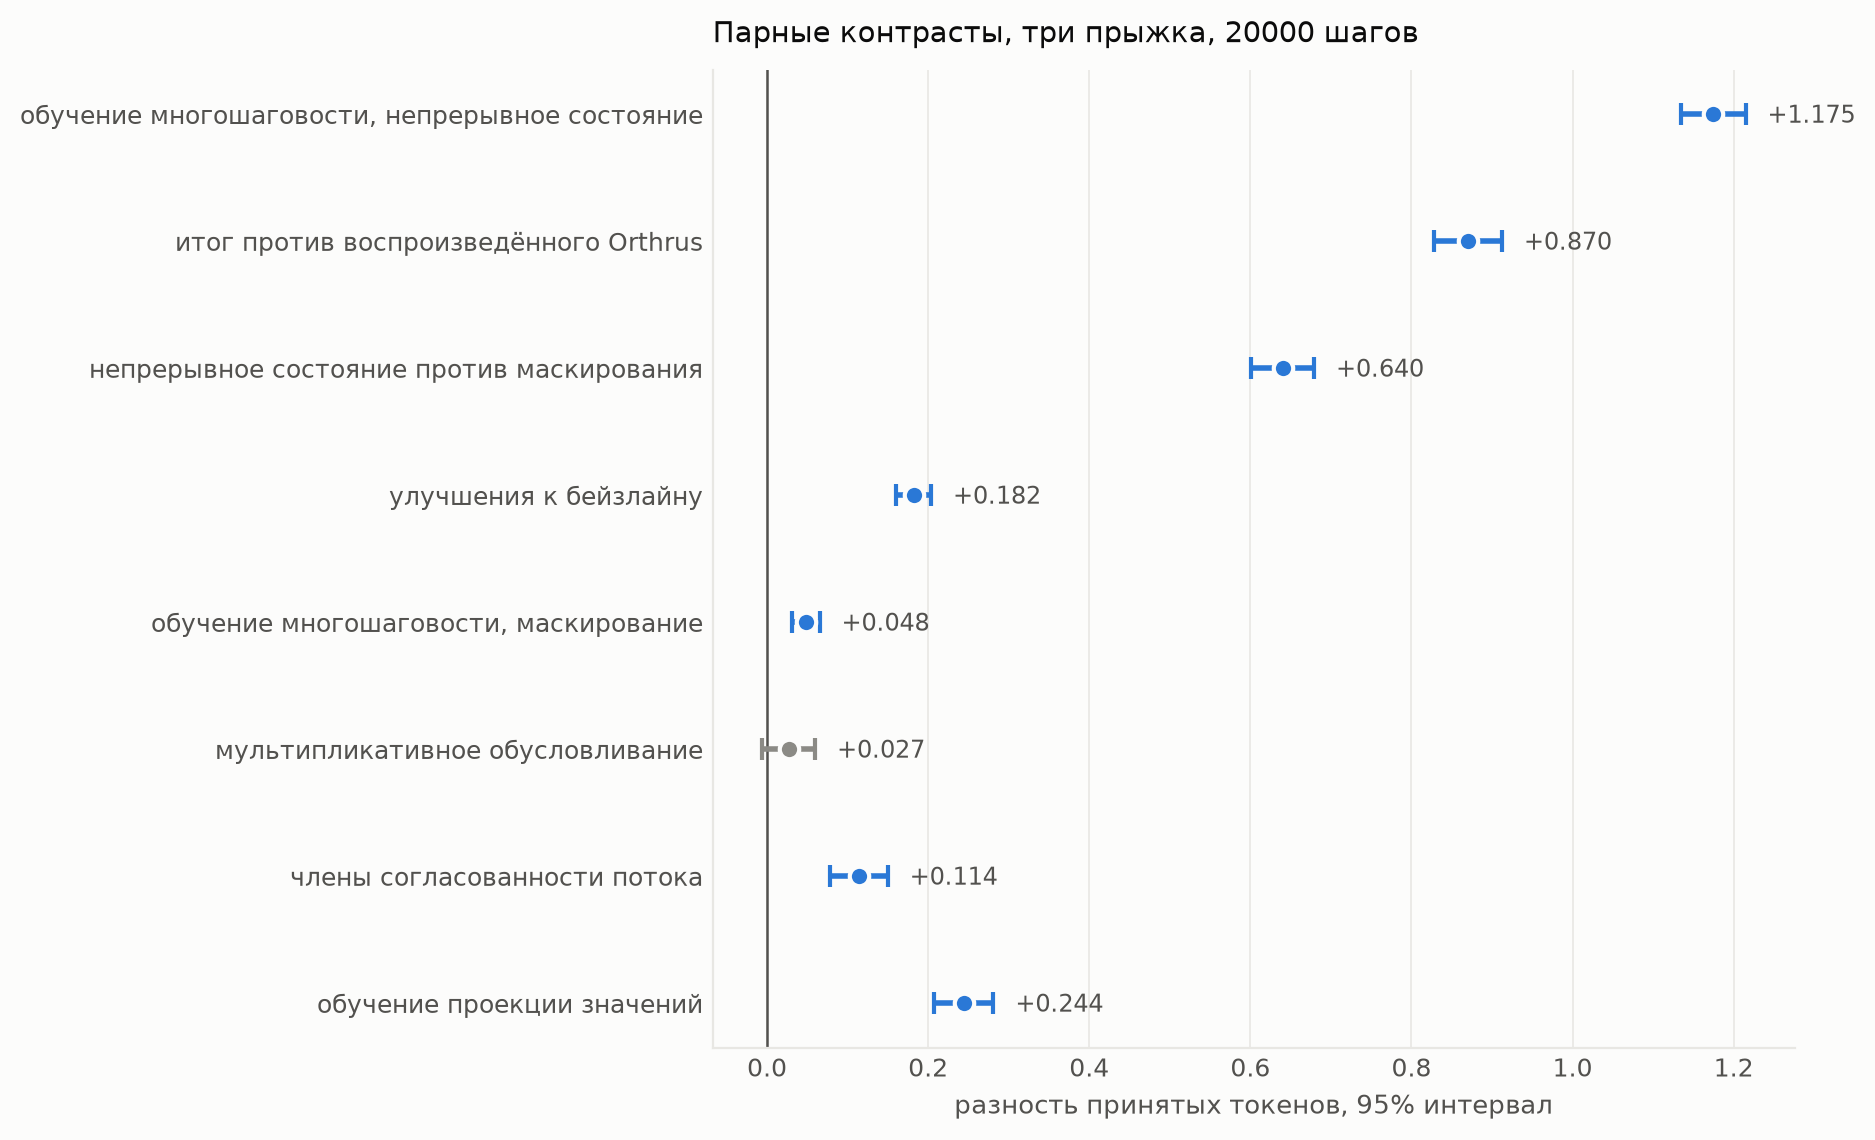
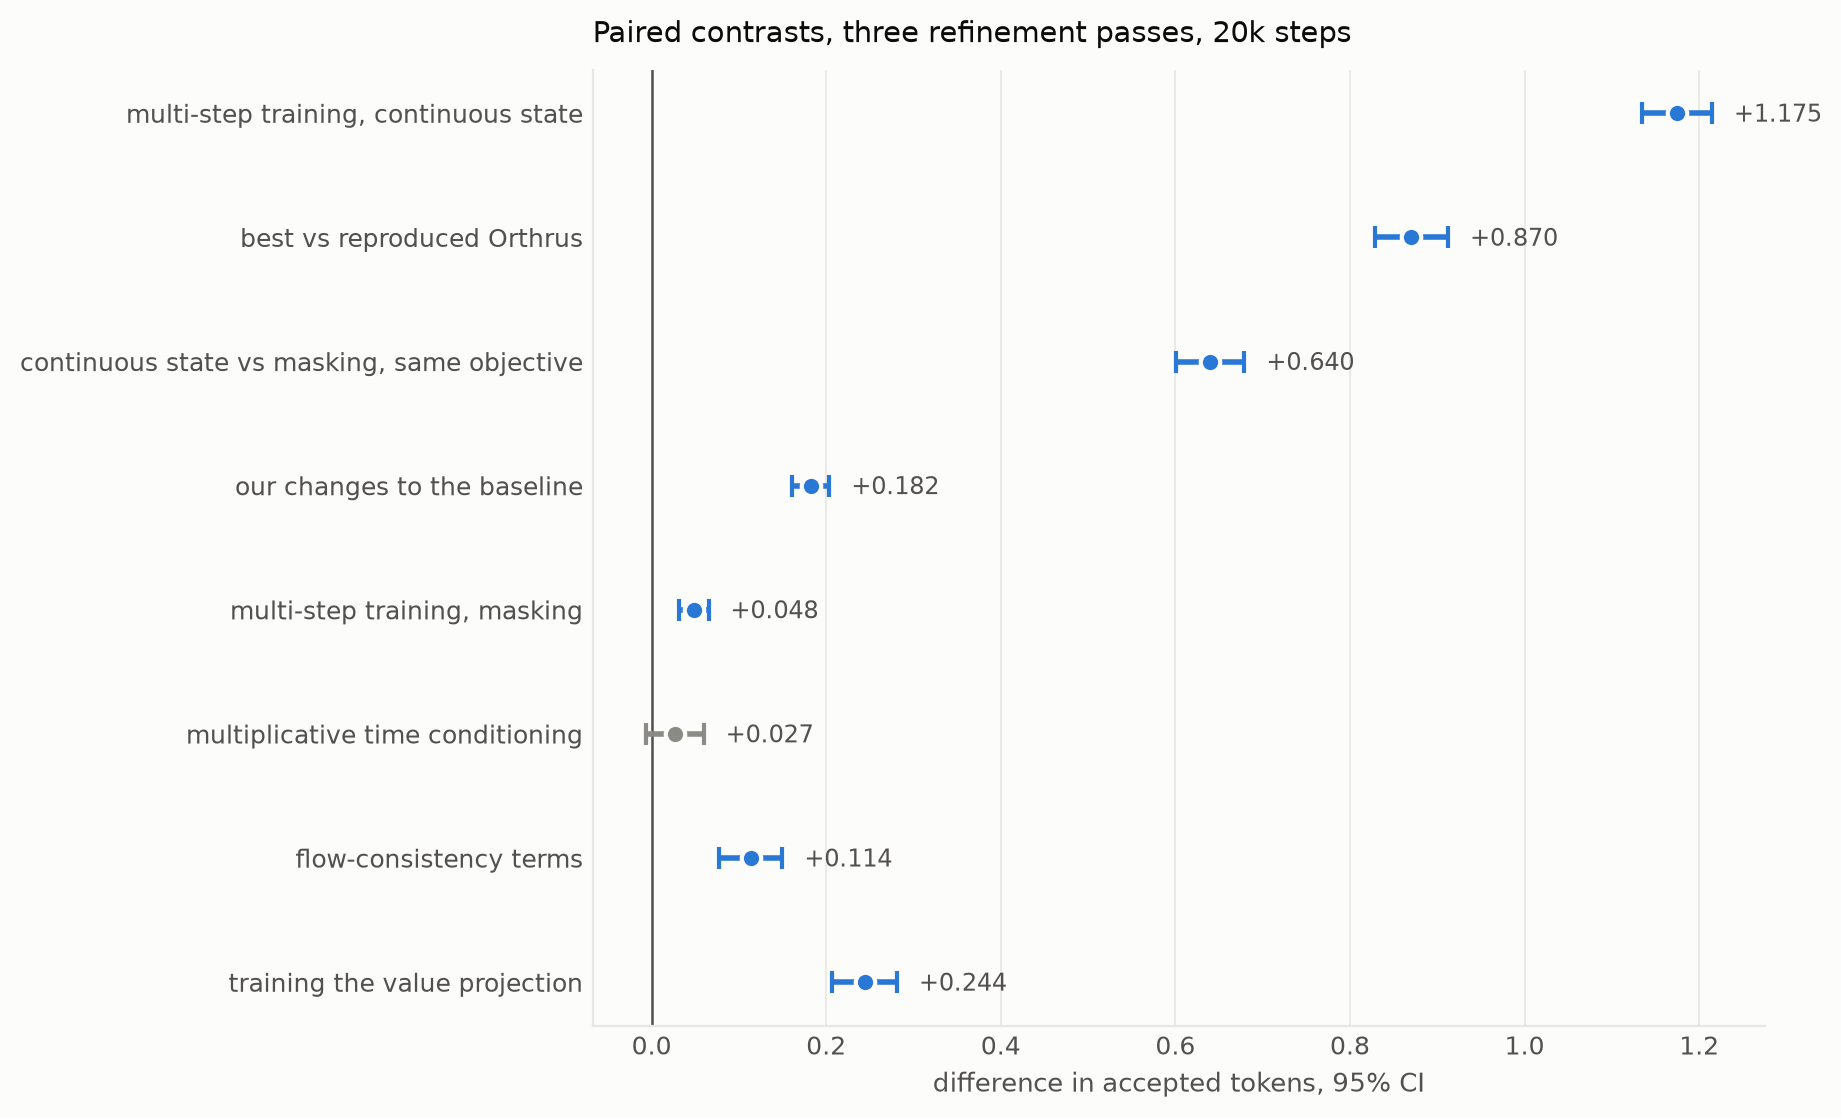
docs: rewrite the study section in English, add multi-step figures
The README had a Russian section wedged into an English document, with
calques that read as noise. Rewritten in English throughout.

Figures relabelled in English and two added: the per-benchmark breakdown, which
shows the effect holds on all six, and the measured horizon, which shows eight
of ten runs still climbing at the step budget. The multi-step figure now names
what it plots — accepted tokens and tokens per forward against refinement
passes — instead of hiding it behind a filename.

diff --git a/README.md b/README.md
@@ -44,70 +44,74 @@
 - [Acknowledgments](#acknowledgments)
 - [License](#license) 🚧
 
-## Кампания 8–9 августа 2026: обучение многошаговости
+## Multi-step drafting study (August 8-9, 2026)
 
-Десять экспериментов на SmolLM2-135M, 20000 шагов каждый, строгий замер на 460
-задачах шести бенчмарков (56000 попромптовых наблюдений, три горизонта, четыре
-расписания декодирования). Постановка, результаты и сравнение со статьёй —
-[EXPERIMENTS.md](EXPERIMENTS.md).
+Ten training runs on SmolLM2-135M, 20k steps each, measured on 460 tasks drawn
+from six benchmarks — 56,000 per-prompt observations across three training
+horizons and four decode schedules. Setup, results and the comparison against
+the paper: [EXPERIMENTS.md](EXPERIMENTS.md).
 
-**Главный результат.** Вывод статьи Orthrus «одношаговая проекция оптимальна»
-верен для маскирующего чернового генератора и неверен для непрерывного
-состояния. У всех маскирующих вариантов приёмка от числа проходов уточнения
-почти не растёт (+0.055…+0.069 от одного прохода к четырём), у непрерывного
-состояния с обучением многошаговости она растёт на **+0.925**. Та же
-архитектура **без** этого обучения теряет 0.337 токена — единственный
-отрицательный рост в наборе.
+**Headline.** Orthrus concludes that single-step projection is optimal. That
+holds for a masked drafter and fails for a continuous state. Every masked
+variant gains almost nothing from extra refinement passes (+0.055 to +0.069
+going from one pass to four), whether or not it was trained on them. A
+continuous state trained on its own refinement procedure gains **+0.925**. The
+same architecture *without* that training **loses** 0.337 tokens — the only
+negative slope in the set.
 
-| контраст (три прохода, 20000 шагов) | Δ принятых токенов | 95% интервал |
+| contrast (three passes, 20k steps) | Δ accepted tokens | 95% CI |
 |---|---|---|
-| обучение многошаговости, непрерывное состояние | **+1.175** | [+1.135, +1.215] |
-| итог против воспроизведённого Orthrus | **+0.870** | [+0.828, +0.912] |
-| непрерывное состояние против маскирования при том же члене | +0.640 | [+0.601, +0.679] |
-| наши изменения к воспроизведённому бейзлайну | +0.182 | [+0.161, +0.204] |
-| обучение многошаговости, маскирование | +0.048 | [+0.031, +0.065] |
+| multi-step training, continuous state | **+1.175** | [+1.135, +1.215] |
+| best run vs reproduced Orthrus | **+0.870** | [+0.828, +0.912] |
+| continuous state vs masking, same objective | +0.640 | [+0.601, +0.679] |
+| our changes to the reproduced baseline | +0.182 | [+0.161, +0.204] |
+| multi-step training, masking | +0.048 | [+0.031, +0.065] |
 
-**Ускорения многошаговость не даёт.** Пропускная способность падает монотонно, и
-ни один вариант при многошаговости не превышает единицу, то есть не быстрее
-обычного декода: цикл стоит `n+1` форвардов, а приёмка растёт медленнее, чем `n`.
-Выше единицы только одношаговое декодирование (1.327 / 1.264 / 1.219).
+**Multi-step buys quality, not speed.** Throughput falls monotonically and no
+multi-step variant exceeds 1.0 tokens per forward, i.e. none beats plain
+autoregressive decoding: a cycle costs `n+1` forwards while acceptance grows
+slower than `n`. Only single-pass decoding clears 1.0 (1.327 / 1.264 / 1.219).
+This is exactly what the prefix-fixing lemma predicts — it gives `TPF = 1` as a
+floor, not as a speedup mechanism.
 
-![приёмка и пропускная способность против числа прыжков](results/figures/jumps.png)
-![кривые обучения](results/figures/training_curves.png)
-![парные контрасты](results/figures/contrasts.png)
+![acceptance and throughput vs refinement passes](results/figures/multistep.png)
+![training curves](results/figures/training_curves.png)
+![paired contrasts](results/figures/contrasts.png)
+![per-benchmark breakdown](results/figures/per_benchmark.png)
+![measured horizon](results/figures/horizon.png)
 
-**Ограничение:** сид обучения один. Интервалы описывают разброс по задачам, а не
-между прогонами обучения. Утверждение о методе требует нескольких сидов.
+**Caveat.** One training seed. The intervals describe spread over tasks, not
+across training runs. A claim about the *method* needs several seeds; seed
+replication is in progress.
 
-### Что изменилось в коде
+### What changed in the code
 
-Дефекты, каждый с измеренным различием до и после:
+Defects found and fixed, each with a measured before/after:
 
-| | было | стало |
+| | before | after |
 |---|---|---|
-| доля фиксации в обучении многошаговости | `[16, 31]` — второй проход супервизировал блок без единой маски | `[10, 21]`, совпадает с декодной точно |
-| расписание валидации задавалось числом | две ноги из трёх шли при `t<1`, где градиента нет вовсе | пары рестарта, совпадающие с обучаемыми |
-| веса позиций у двух ветвей | разный dtype, 2.828 против 2.824 | побитово одни |
-| смешанная валидация | падала на вложенной инициализации Hydra | работает |
-| разбор расписания парами | падал на `ListConfig` | все пять форм |
-| мёртвый форвард при нулевых членах согласованности | 3 и 7 форвардов на шаг | 2 и 6, время шага 0.18 → 0.11 с |
-| обусловливание временем тратило глобальный генератор | эксперименты с разной архитектурой видели разные данные при одном сиде | пересев после сборки модели |
-| `eval.py` | мерил на блоке 8 модель, обученную на 32; падал на записи парных расписаний | исправлено |
-| `min_jump_gap` | обоснование было неверным: градиент при `s≈t` не нулевой, а пропорционален `t−s` | оставлен в нуле |
+| commit widths in multi-step training | `[16, 31]` — the second pass supervised a block with no masks left | `[10, 21]`, matching decode exactly |
+| validation schedule given as an integer | two legs of three ran at `t<1`, where no term provides gradient | restart pairs matching what is trained |
+| position weights across the two branches | different dtype, 2.828 vs 2.824 | bitwise identical |
+| mixed-benchmark validation | crashed on nested Hydra initialisation | works |
+| schedule parsing for pair form | crashed on `ListConfig` | all five input forms |
+| dead forward when consistency terms are off | 3 and 7 backbone forwards per step | 2 and 6; step time 0.18 s → 0.11 s |
+| time conditioning consumed the global RNG | one architecture saw different data at the same seed | reseed after model construction |
+| `eval.py` | measured a block-32 model at block 8; crashed writing paired schedules | fixed |
+| `min_jump_gap` | justification was wrong: the gradient at `s≈t` is `O(t−s)`, not zero | left at 0 |
 
-Переносимость: снят запрет на чужие бэкбоны под CUDA (плотный путь маски
-корректен и портативен); коллективные проверка конечности лосса и решение о
-сохранении при аварии; сдвиг сида по рангу; чанкование всех трёх режимов учителя
-(6.09 → 0.75 ГБ на бумажном пресете); `val_check_interval` в пресетах из статьи
-считался в батчах загрузчика — 3.9 шага оптимизатора вместо 250.
+Portability: the CUDA path no longer refuses non-Qwen3 backbones (the dense
+mask is correct and portable); the finite-loss check and the crash-checkpoint
+decision are now collective; the seed is offset by rank; all three teacher
+modes are chunked (6.09 GB → 0.75 GB at the paper preset); `val_check_interval`
+in the paper presets counted loader batches — 3.9 optimizer steps instead of 250.
 
-Losslessness требует `model.backbone.dtype=float32`: под bf16 арифметика
-проверяющей модели ломает побитовое совпадение на близких значениях (5 из 6
-против 6 из 6). Для сравнения экспериментов безвредно, для утверждения о
-losslessness — нет.
+Losslessness needs `model.backbone.dtype=float32`: under bf16 the verifier's
+arithmetic breaks bitwise agreement on near-ties (5 of 6 vs 6 of 6). Harmless
+for comparing runs, not harmless for the losslessness claim.
 
-Отвергнутые конфигурации — в [bucket/](bucket/) с числами и обоснованием.
-Посылки целевой функции, которые кодом не устраняются, — в
+Rejected configurations live in [bucket/](bucket/) with their numbers.
+Objective assumptions that code cannot remove are in
 [ASSUMPTIONS.md](ASSUMPTIONS.md).
 
 ## Overview
